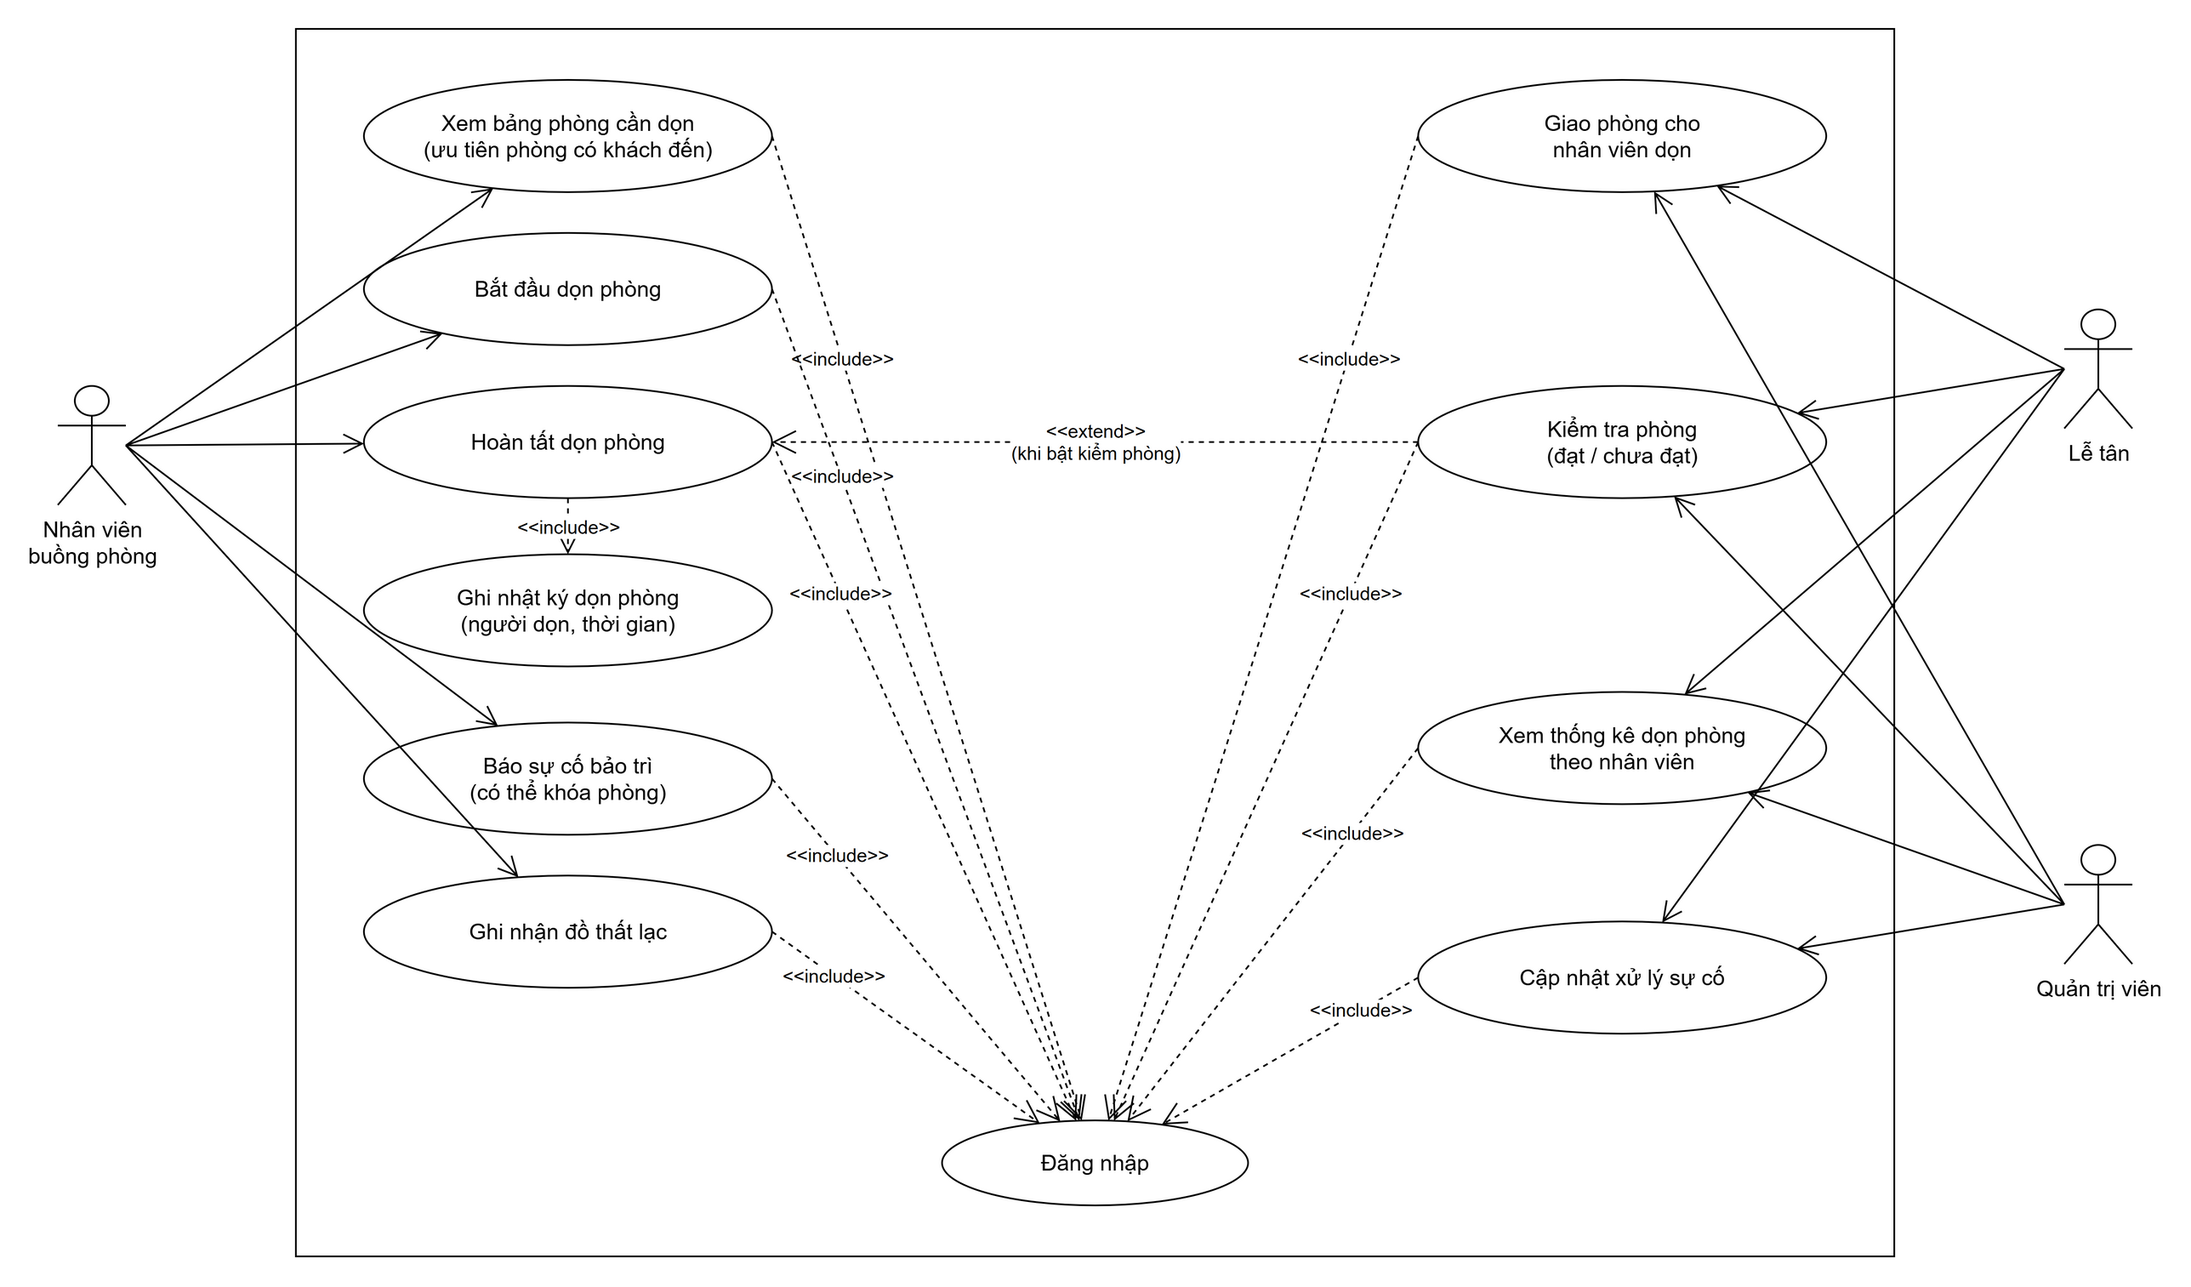
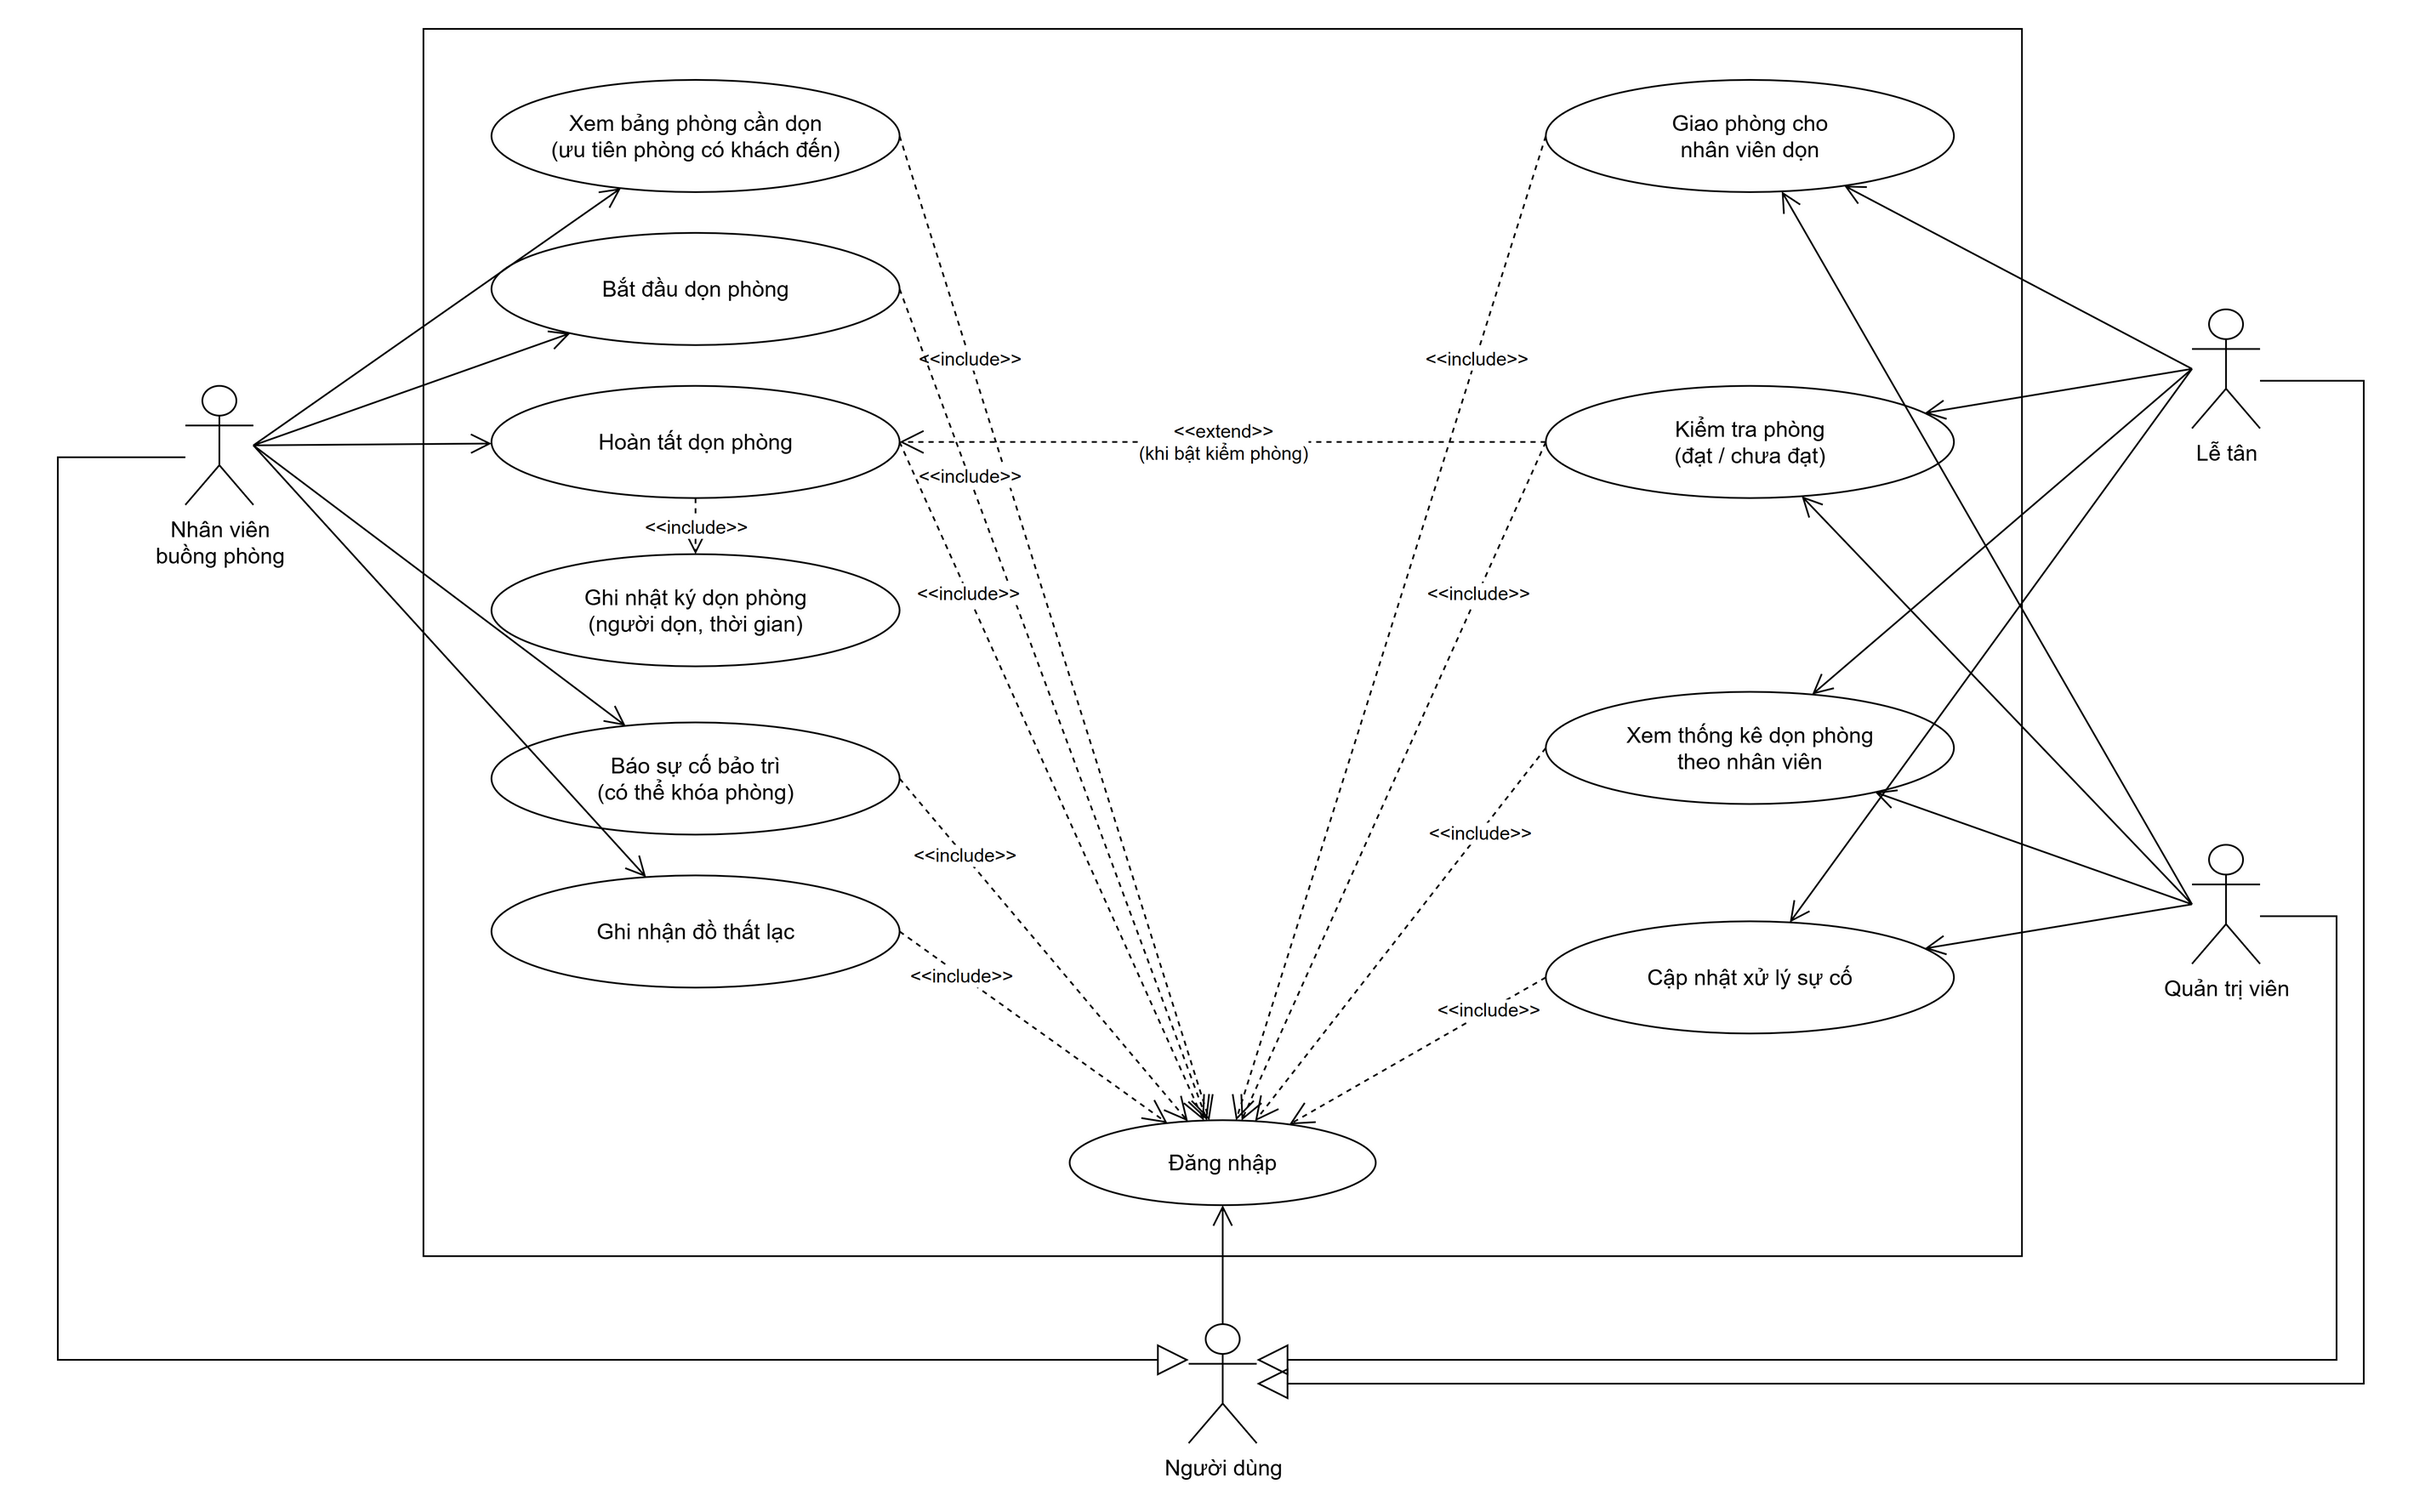
Use case phan ra: them tac nhan Nguoi dung noi toi Dang nhap, cac tac nhan ke thua Nguoi dung nhu so do tong quat

diff --git a/TIEN-DO.md b/TIEN-DO.md
@@ -37,7 +37,7 @@
 ### Đợt 14 (21/10/2026) - Use case phân rã có Đăng nhập, làm lại slide
 | Commit | Chức năng |
 |---|---|
-| (xem `git log`) | **9 use case phân rã vẽ lại theo kiểu sơ đồ tổng quát `uc0`** (đen trắng, nhãn `<<include>>`, có UC «Đăng nhập» được include từ mọi UC của người dùng; UC của Bộ hẹn giờ / VNPay / OTA không cần đăng nhập) trong `docs/use-case/phan-ra/` (`.drawio` + `.png`, kèm `uc0-tong-quat.png` xuất từ bản `uc0` chủ dự án sửa). Bản cũ `docs/use-case/uc1 ... uc9` và hình trong báo cáo **chưa thay**. Sinh bằng script Python `ucgen.py` trong thư mục tạm của phiên (bố cục cột A = UC chính, cột B = UC phụ / UC của tác nhân bên phải, Đăng nhập ở hành lang giữa). **Slide** (artifact claude.ai «Khảo sát hệ thống Sóng Xanh Resort», https://claude.ai/artifact/QZVKLhzufpr5APoKQqimBt) làm lại ít chữ, 18 slide: gộp 6 slide phiếu hỏi thành 1, gộp quan sát + tài liệu, bỏ slide đối chiếu yêu cầu; thêm BFD, use case tổng quát và 5 phân rã (UC1 đặt phòng, UC2 cọc – hủy – hoàn, UC3 nhận – trả phòng, UC8 chăm sóc khách, UC7 lãi lỗ – AI), không mô tả; nội dung chi tiết chuyển vào ghi chú người nói |
+| (xem `git log`) | **9 use case phân rã vẽ lại theo kiểu sơ đồ tổng quát `uc0`** (đen trắng, nhãn `<<include>>`, có UC «Đăng nhập» được include từ mọi UC của người dùng, tác nhân «Người dùng» nối tới Đăng nhập và các tác nhân người kế thừa Người dùng (đường kế thừa đi vòng ngoài khung) như `uc0`; UC của Bộ hẹn giờ / VNPay / OTA không cần đăng nhập) trong `docs/use-case/phan-ra/` (`.drawio` + `.png`, kèm `uc0-tong-quat.png` xuất từ bản `uc0` chủ dự án sửa). Bản cũ `docs/use-case/uc1 ... uc9` và hình trong báo cáo **chưa thay**. Sinh bằng script Python `ucgen.py` trong thư mục tạm của phiên (bố cục cột A = UC chính, cột B = UC phụ / UC của tác nhân bên phải, Đăng nhập ở hành lang giữa). **Slide** (artifact claude.ai «Khảo sát hệ thống Sóng Xanh Resort», https://claude.ai/artifact/QZVKLhzufpr5APoKQqimBt) làm lại ít chữ, 18 slide: gộp 6 slide phiếu hỏi thành 1, gộp quan sát + tài liệu, bỏ slide đối chiếu yêu cầu; thêm BFD, use case tổng quát và 5 phân rã (UC1 đặt phòng, UC2 cọc – hủy – hoàn, UC3 nhận – trả phòng, UC8 chăm sóc khách, UC7 lãi lỗ – AI), không mô tả; nội dung chi tiết chuyển vào ghi chú người nói |
 
 ### Đợt 13 (21/10/2026) - Báo cáo: đánh số trang liền mạch
 | Commit | Chức năng |
